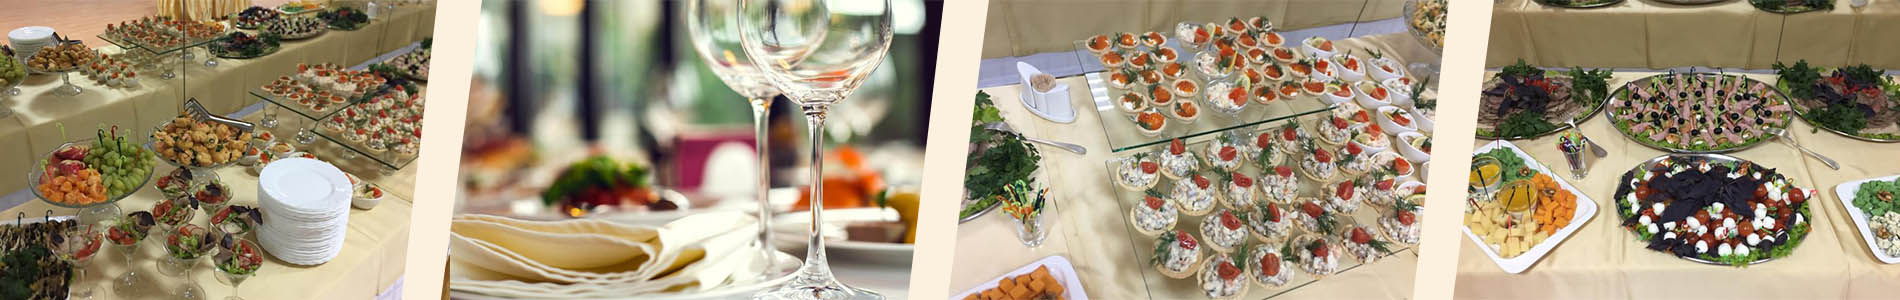
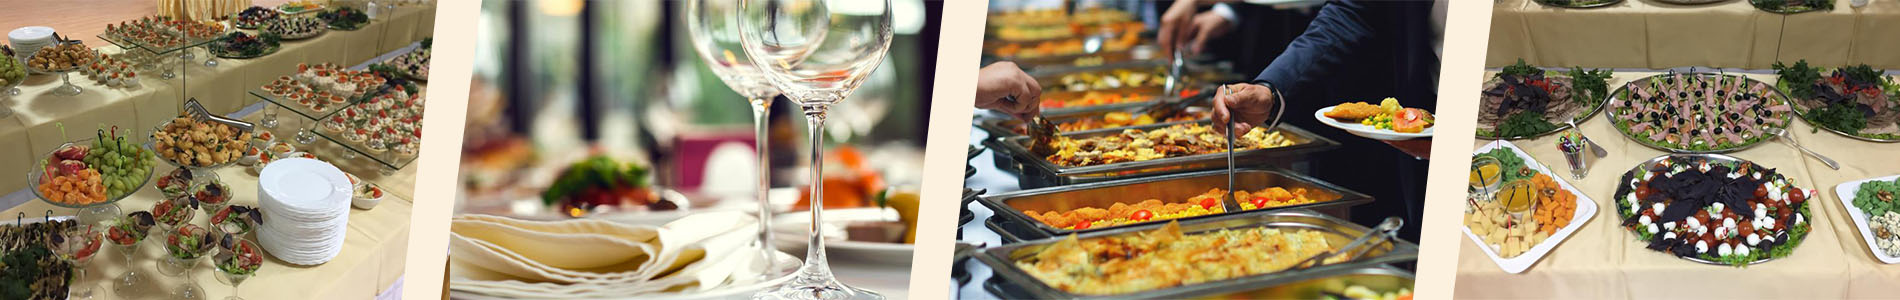
обновил фото карусели

Changed region(s): [[0.4968, 0.0, 0.7763, 1.0]]

diff --git a/controllers/SiteController.php b/controllers/SiteController.php
@@ -210,7 +210,6 @@ class SiteController extends AppController {
                 (($model->conditions[0]) === 0) ?
                                 $message = 'По медицинским показаниям. Направление врача мед. справка ф 070-у' : $message = 'Оздоровительный отдых (без мед. справки ф 070-у)';
 
-
                 Yii::$app->session->setFlash('conditions', $message);
 
                 if (($model->body) <> null)
@@ -219,8 +218,6 @@ class SiteController extends AppController {
                 $file_in = UploadedFile::getInstance($model, 'uploadFile');
                 $model->uploadFile = UploadedFile::getInstance($model, 'uploadFile'); // преобразовали файл из формы в объект
 
-                if (($file_in->name) <> null)
-                    Yii::$app->session->setFlash('file_in', 'Файл: ' . $file_in->name);
 
                 // отправляем письмо с данными заказа на корпоративную почту
                 Yii::$app->mailer->compose('order', ['model' => $model])
@@ -243,23 +240,21 @@ class SiteController extends AppController {
                 $order->name = $model->name;
                 $order->email = $model->email;
                 $order->phone = $model->phone;
-               // $order->date_order = date("YYYY-mm-dd");
-               // $order->date_begin = $model->date_begin;
-                //$order->date_end = $model->date_end;
-               // $order->conditions = $model->conditions;
-               // $order->nameFile1 = md5(microtime() . rand(0, 9999));
-              //  $order->nameFile2 = $file_in->name;
-              //  $order->body = $model->body;
+                $order->date_order = date("Y-m-d");
+                $order->date_begin = $model->date_begin;
+                $order->date_end = $model->date_end;
+                $order->conditions = $message;
+                if (($file_in->name) <> null) {
+                    $order->nameFile1 = md5(microtime() . rand(0, 9999)) . '.' . $file_in->extension;
+                    $order->nameFile2 = $file_in->name;
+                    Yii::$app->session->setFlash('file_in', 'Файл: ' . $file_in->name);                    
+                }
+                $order->body = $model->body;
+
                 $order->save();
 
-                debug($order);
-                
-                
-                die;
-                
-                
                 if (isset($model->uploadFile)) {
-                    $model->uploadFile->saveAs('uploads/order/' . $model->uploadFile->baseName . '.' . $model->uploadFile->extension);
+                    $model->uploadFile->saveAs('uploads/order/' . $order->nameFile1);
                 }
 
                 Yii::$app->session->setFlash('success', "Спасибо. Данные успешно записаны.<br> Наш сотрудник обязательно свяжется с Вами.");

diff --git a/views/site/nutrition.php b/views/site/nutrition.php
@@ -13,10 +13,10 @@ $this->params['breadcrumbs'][] = '';
     </div>
 
     <div class="row text-center my-2"> 
-        <div class="col-xl-1 d-none d-xl-block">
+        <div class="col-xl-2 d-none d-xl-block">
             <div class="block-3px my-4"></div>
         </div>
-        <div class="col-xl-6  col-12">
+        <div class="col-xl-8  col-12">
             <h4 class="mb-4">Питание гостей в санатории-профилактории «Курорт-парк «Союз» МИД России»</h4>
 
             <p class="text-left">
@@ -26,8 +26,8 @@ $this->params['breadcrumbs'][] = '';
                 соленьев, салатов, гарниров, 
                 свежих овощей и фруктов, домашней выпечки и напитков.<br>
 
-                Наши повара знают все о здоровом питании и готовы предложить Вам <strong><a href="#">диетическое 
-                        питание</a></strong>  по назначению врача. <br><br>
+                Наши повара знают все о здоровом питании и готовы предложить Вам 
+                <strong>диетическое питание</strong>  по назначению врача. <br><br>
 
 
                 Часы работы шведского стола:<br>
@@ -43,10 +43,7 @@ $this->params['breadcrumbs'][] = '';
             </p>
 
         </div>
-        <div class="col-xl-4 col-12 align-self-center">
-            <img src="<?= Url::to(['/images/nutrition/buffet/1.jpg']) ?>"  style="max-width: 100%;" alt="шведский стол">"            
-        </div>
-        <div class="col-xl-1 d-none d-xl-block align-self-end">
+        <div class="col-xl-2 d-none d-xl-block align-self-end">
             <div class="block-3px my-4"></div>
         </div>
     </div>

diff --git a/views/site/reservation.php b/views/site/reservation.php
@@ -30,7 +30,7 @@ $this->params['breadcrumbs'][] = '';
     <?php if (Yii::$app->session->hasFlash('success')): ?>
 
         <!-- данные переданы успешно. Выводим их на экран. --> 
-        <div class="alert alert-success my-3 " role="alert">
+        <div class="alert alert-success my-3 col-12" role="alert">
 
             <div class="row justify-content-center text-center mb-3"><strong><?= Yii::$app->session->getFlash('success'); ?></strong></div>
             <div class="row my-3 pl-5">
@@ -75,6 +75,12 @@ $this->params['breadcrumbs'][] = '';
             <?php endif; ?>            
 
 
+        </div> 
+
+        <div class="col-lg-2 text-center text-lg-right align-self-lg-center p-0 m-0">
+            <a href="/index">
+                    на главную</button>
+            </a>                                
         </div>   
 
     <?php endif; ?>
@@ -111,8 +117,8 @@ $this->params['breadcrumbs'][] = '';
 
                 <?=
                 $form->field($model, 'conditions[]')->dropdownList([
-                   'По медицинским показаниям. Направление врача мед. справка ф 070-у',
-                   'Оздоровительный отдых (без мед. справки ф 070-у)'
+                    'По медицинским показаниям. Направление врача мед. справка ф 070-у',
+                    'Оздоровительный отдых (без мед. справки ф 070-у)'
                 ]);
                 ?>                
                 <div class="row my-5 my-background-col">

diff --git a/views/site/about.php b/views/site/about.php
@@ -27,7 +27,7 @@ $this->params['breadcrumbs'][] = $this->title;
             Московской области, Щелковский район, поселок Юность, в зоне континентального климата лесной и 
             лесостепной зоны Европейской части России, на берегу живописного озера. 
             Территория санатория представляет собой ухоженную парковую зону с красивым ландшафтом.
-            Более чем 20??? лечебных и жилых корпусов образуют мини-городок,
+            Более чем 30 лечебных и жилых корпусов образуют мини-городок,
             где есть все необходимое для комфортного и приятного оздоровления.
         </p> 
 

diff --git a/migrations/m200610_144532_create_reservation_table.php b/migrations/m200610_144532_create_reservation_table.php
@@ -13,9 +13,9 @@ class m200610_144532_create_reservation_table extends Migration {
     public function safeUp() {
         $this->createTable('{{%reservation}}', [
             'id' => $this->primaryKey(),
-            'name' => $this->string()->notNull()->unique(), // имя заказчика
-            'email' => $this->string()->notNull()->unique(),
-            'phone' => $this->string()->notNull()->unique(),
+            'name' => $this->string()->notNull(), // имя заказчика
+            'email' => $this->string()->notNull(),
+            'phone' => $this->string()->notNull(),
             'date_order' => $this->date(), // дата заказа  
             'date_begin' => $this->date(), // дата заезда  
             'date_end' => $this->date(), // дата отъезда

diff --git a/models/ContactForm.php b/models/ContactForm.php
@@ -36,7 +36,7 @@ class ContactForm extends Model {
             ['conditions', 'trim'], //условия санаторно-курортного лечения
             ['consent', 'compare', 'compareValue' => 1, 'message' => 'Выствите чебокс, иначе форма не отправится!'], // 'Согласие на обработку персональных данных',
             ['email', 'email'],
-            [['date_begin', 'date_end'], 'date', 'format' => 'yyyy-MM-dd'],
+            [['date_begin', 'date_end'], 'date', 'format' => 'y-m-d'],
             ['verifyCode', 'captcha'],
         ];
     }

diff --git a/models/db/Reservation.php b/models/db/Reservation.php
@@ -38,9 +38,6 @@ class Reservation extends \yii\db\ActiveRecord
             [['name', 'email', 'phone'], 'required'],
             [['date_order', 'date_begin', 'date_end'], 'safe'],
             [['name', 'email', 'phone', 'conditions', 'nameFile1', 'nameFile2', 'body'], 'string', 'max' => 255],
-            [['name'], 'unique'],
-            [['email'], 'unique'],
-            [['phone'], 'unique'],
         ];
     }
 
